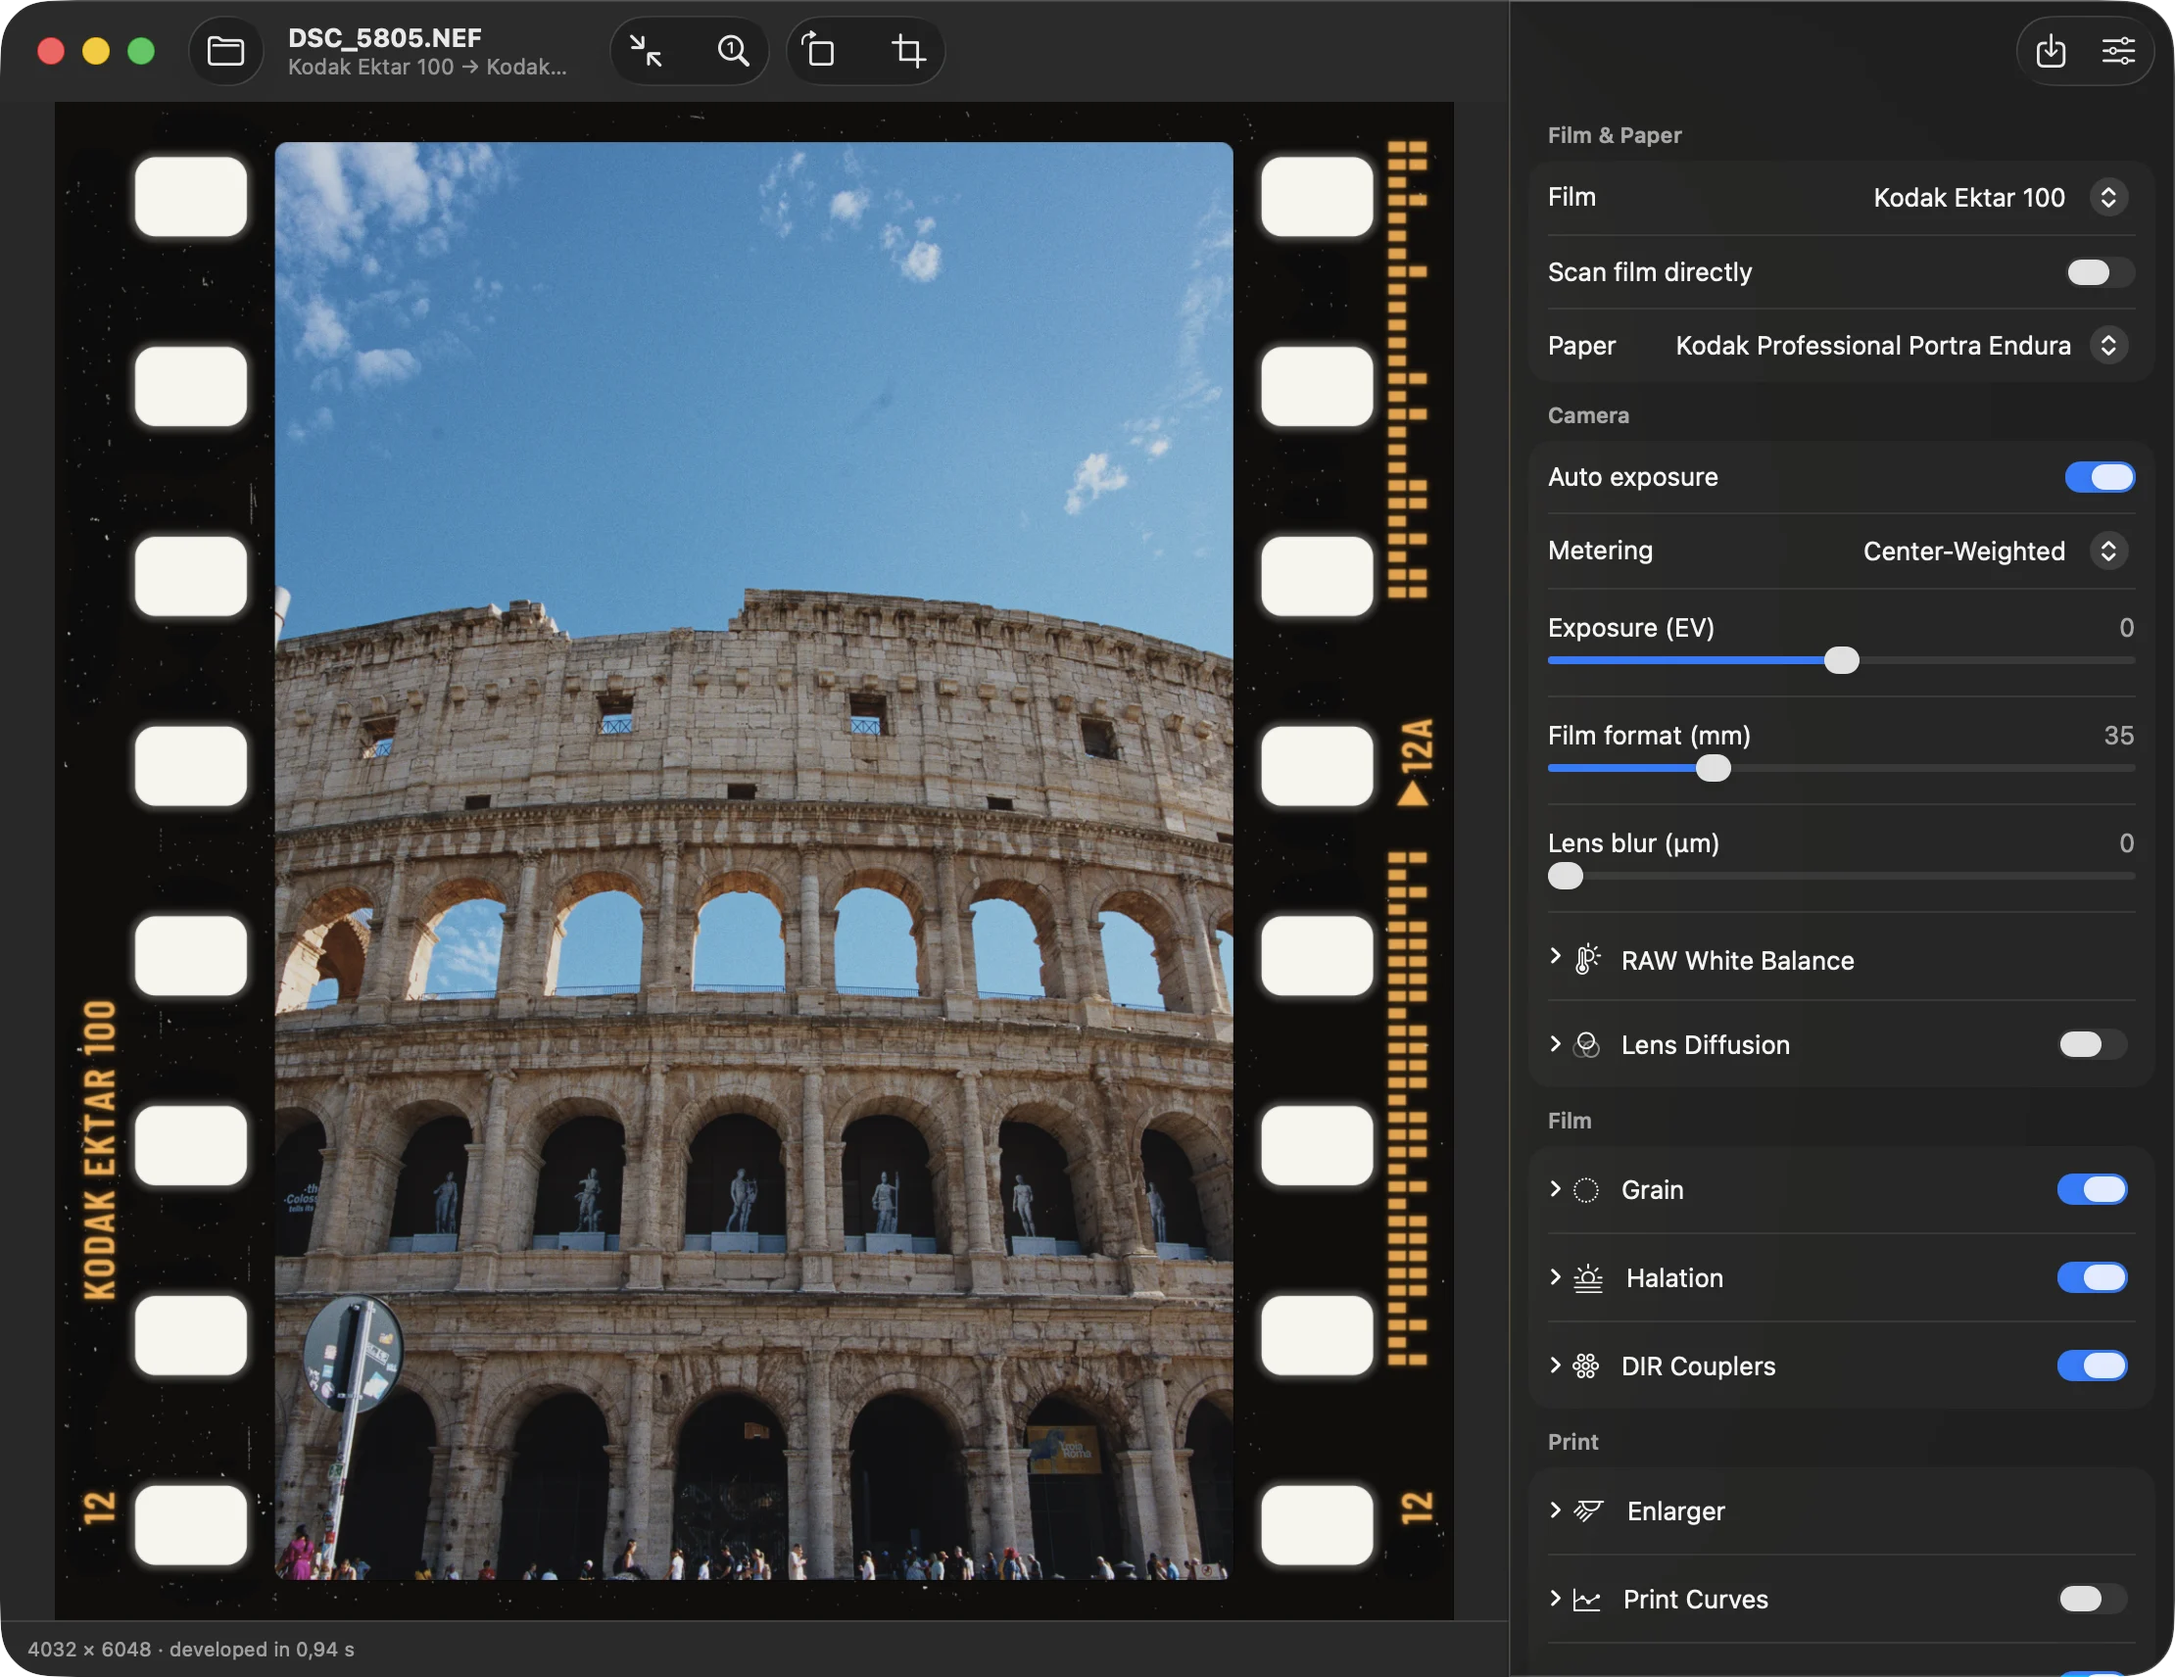
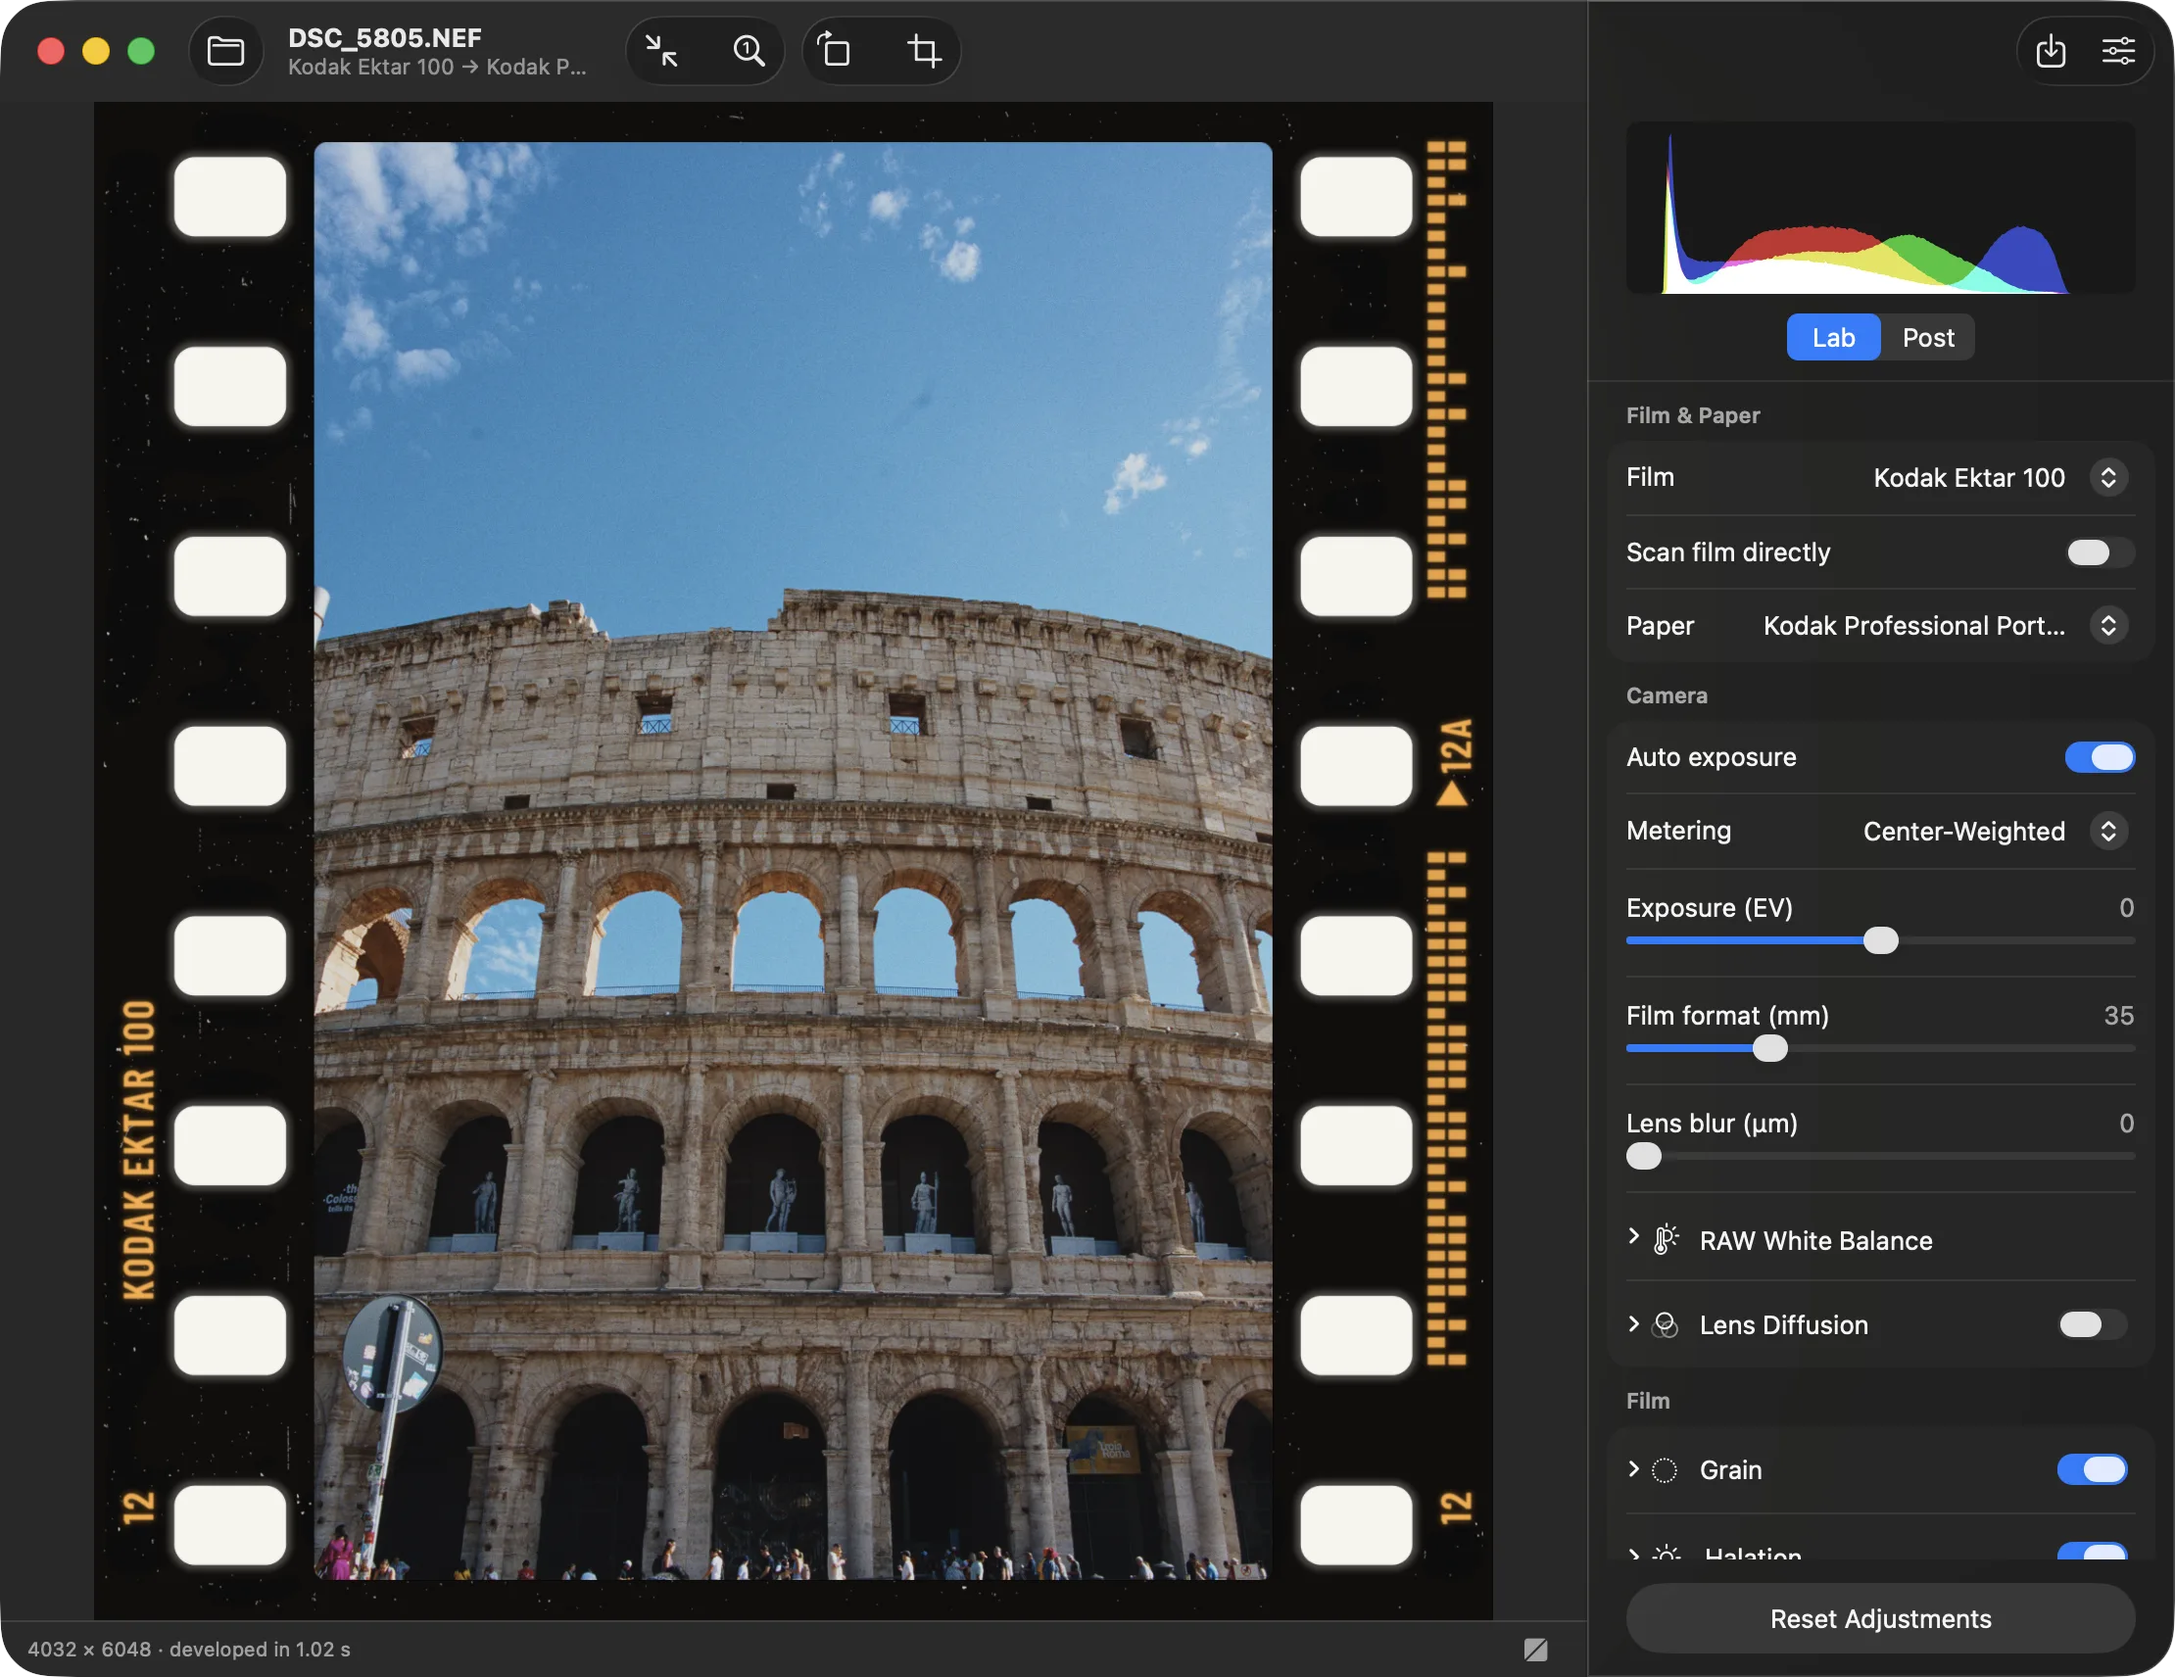
Use the site's new screenshot and link getnegs.com in the README
Point to the install steps from the top, so the macOS security prompt
doesn't come as a surprise.

diff --git a/README.md b/README.md
@@ -6,7 +6,9 @@ Negs is a free Mac app that runs your pictures through a physical simulation of 
 
 Negs is built on two open-source projects: Andrea Volpato's [spektrafilm](https://github.com/andreavolpato/spektrafilm), the spectral film simulation behind every stock, and turbasvin's [spektrafilm-rs](https://github.com/turbasvin/spektrafilm-rs), the Rust port that runs it on the GPU. Negs improves on both: the GPU engine now matches the 64-bit reference render closely enough that exports run on the GPU by default, several times faster. It also adds Apple's RAW decoder and lab-style borders, and wraps it all in a native macOS app.
 
-**[Download for Mac](https://github.com/noahhaasis/negs/releases)** · macOS 14 or later · Apple silicon
+**[Download for Mac](https://github.com/noahhaasis/negs/releases)** · macOS 14 or later · Apple silicon · [getnegs.com](https://getnegs.com)
+
+The first time you open Negs, macOS asks you to allow it in System Settings: see the [install steps](#install).
 
 | RAW · Apple default | Negs · Kodak Ektar 100 |
 |---|---|
@@ -14,7 +16,7 @@ Negs is built on two open-source projects: Andrea Volpato's [spektrafilm](https:
 
 ## A darkroom in a window
 
-![The Negs main window](docs/readme/app-window.webp)
+![The Negs window: a photo of the Colosseum in a 35mm Kodak Ektar 100 frame, with film, camera and print controls on the right](docs/readme/app-window.webp)
 
 Pick a film, pick a paper, drag a slider, and watch the picture change as you move.
 
